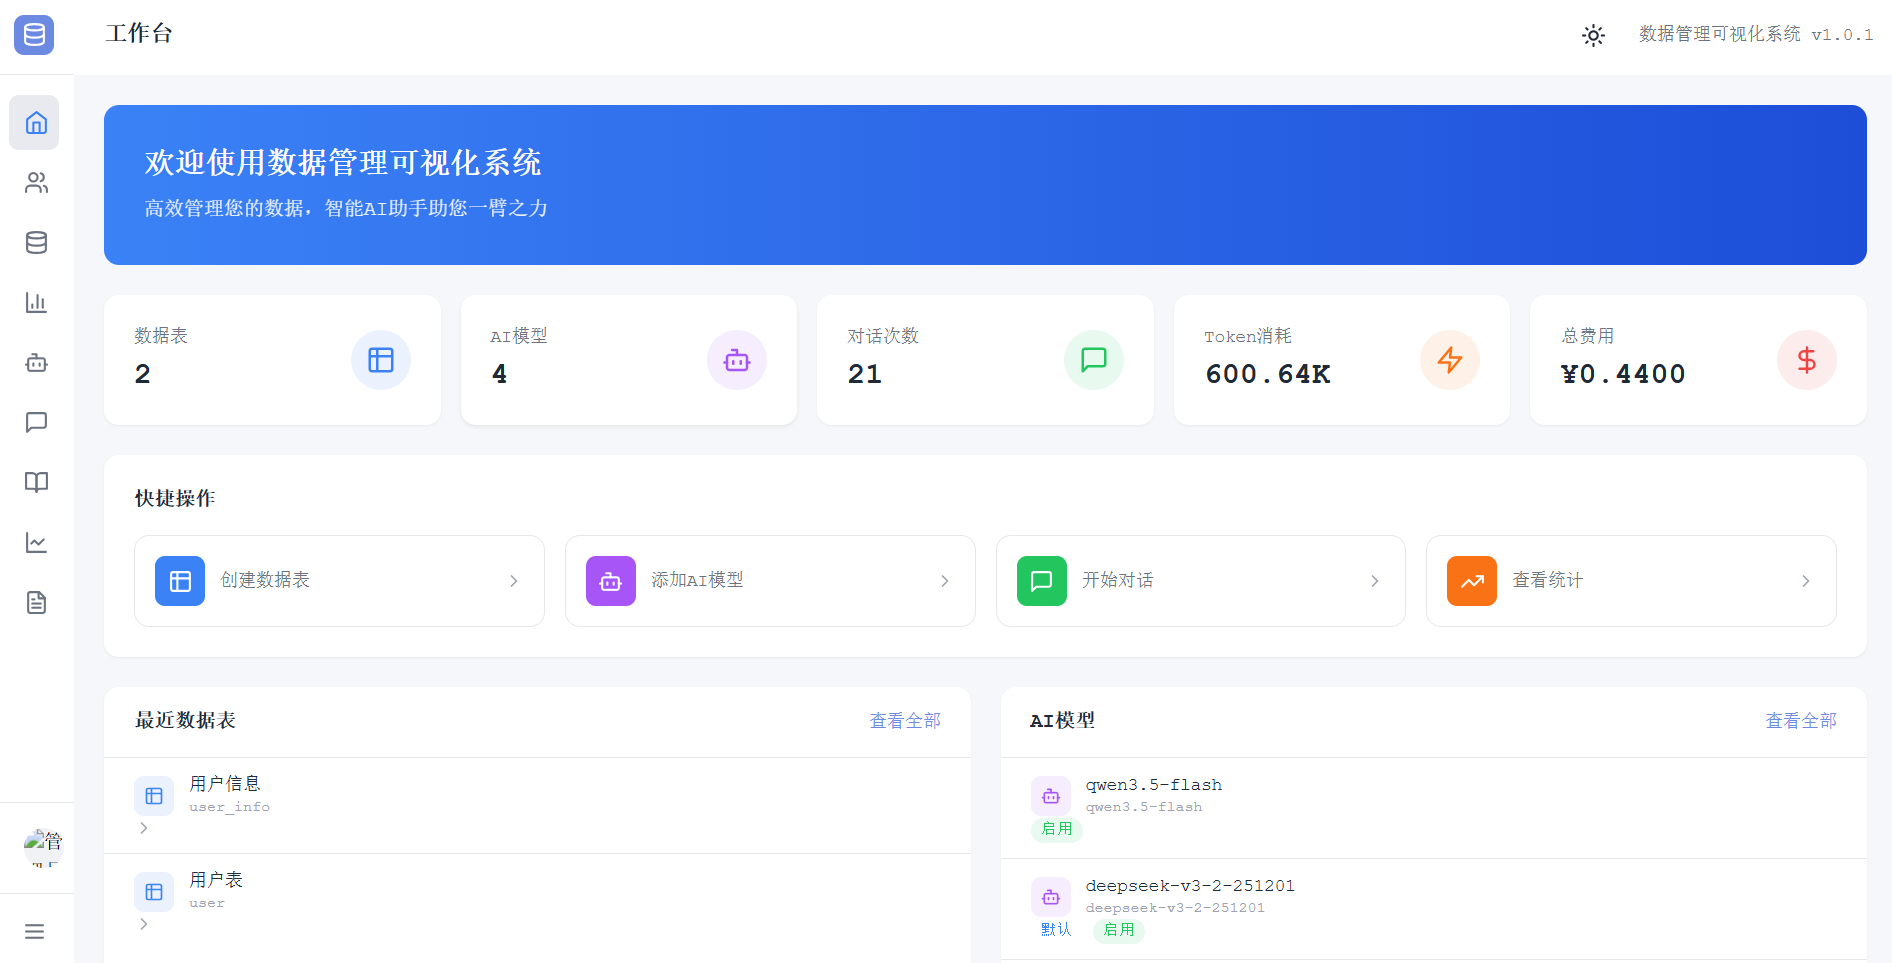
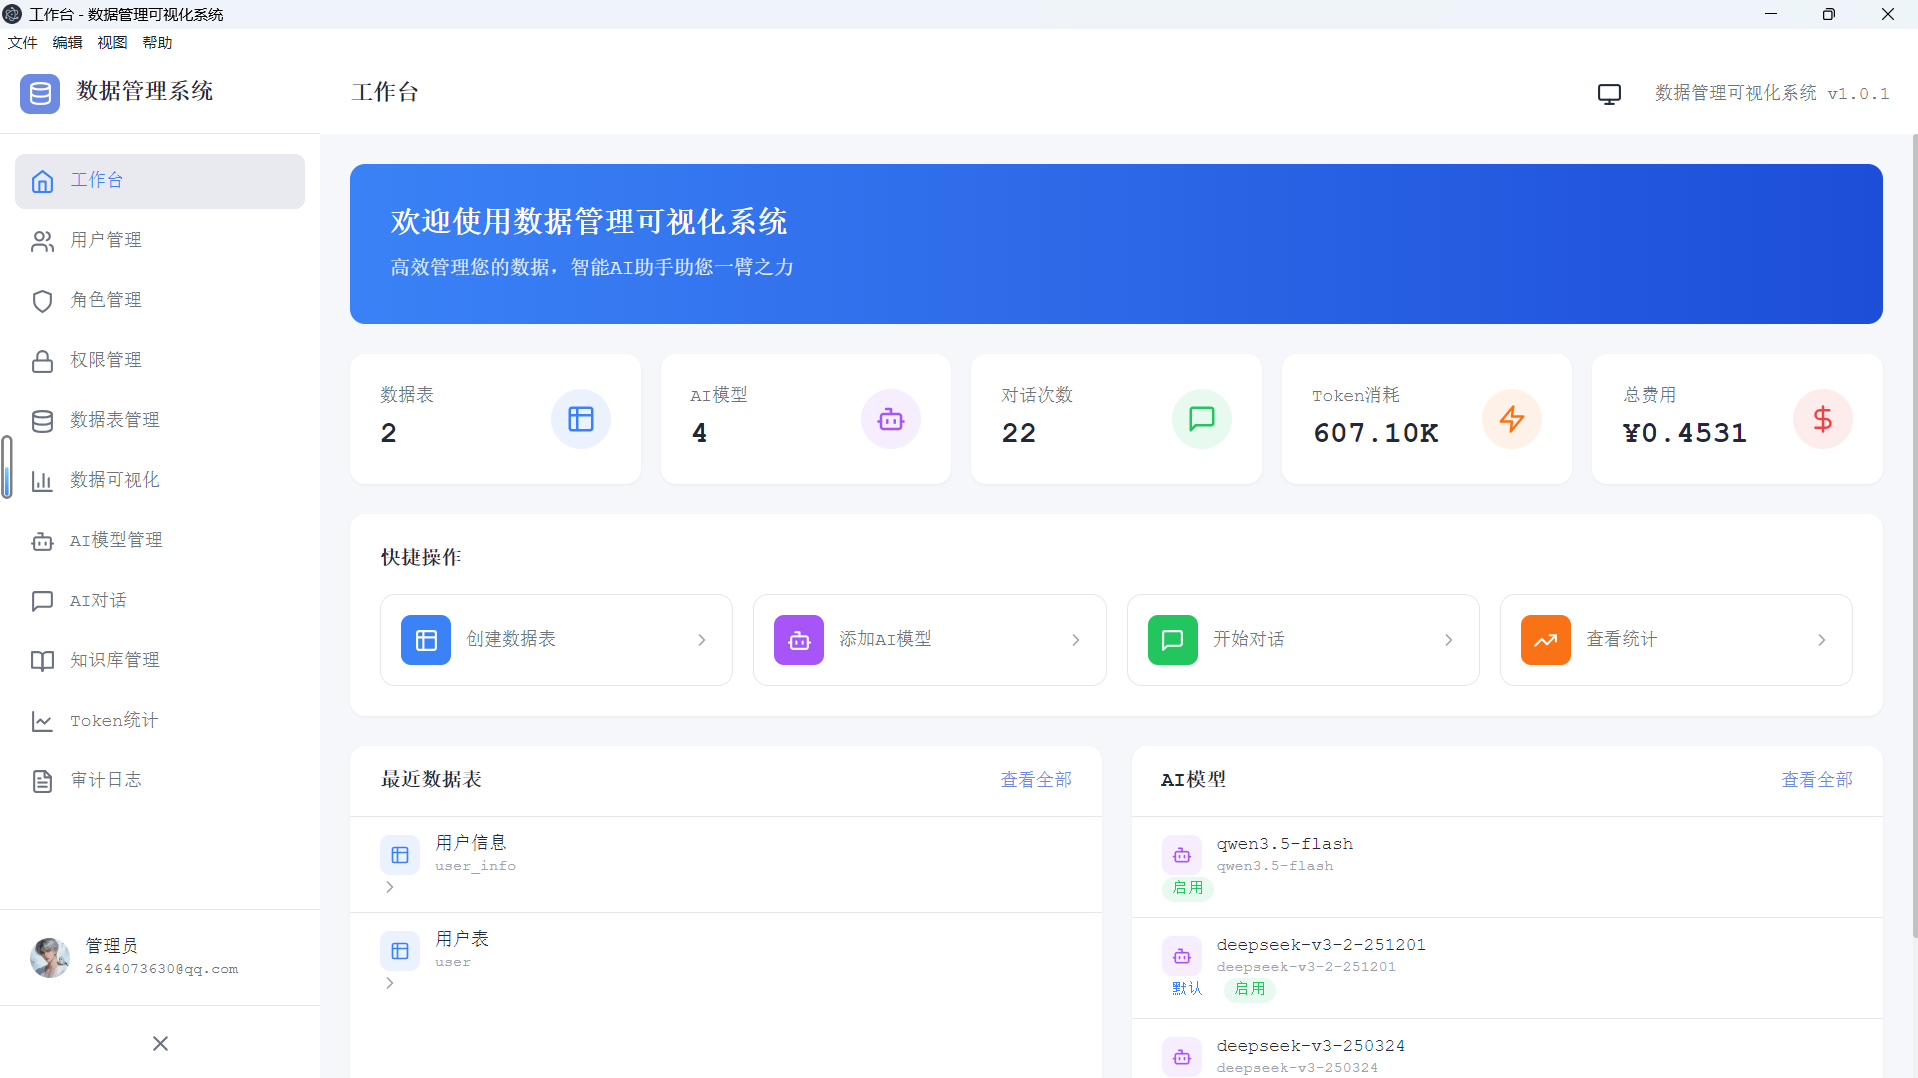
docs: 更新README，新增角色权限、审计日志及文件上传模块文档

diff --git a/README.md b/README.md
@@ -6,7 +6,13 @@
 
 ## 系统预览
 
+**系统首页** - 展示数据概览、快捷操作入口、系统状态等核心信息
+
 ![系统预览图](data-management-system/image/image1.png)
+
+**Token统计页面** - 展示AI模型Token消耗记录、费用统计、按模型/日期筛选分析
+
+![Token统计页面](data-management-system/image/image2.png)
 
 ## 技术栈
 
@@ -54,10 +60,13 @@ data-management-system/
 │   │   ├── views/              # 页面视图
 │   │   │   ├── ai-chat/        # AI对话页面
 │   │   │   ├── ai-model/       # AI模型管理页面
+│   │   │   ├── audit-log/      # 审计日志页面
 │   │   │   ├── dashboard/      # 仪表盘页面
 │   │   │   ├── data-manage/    # 数据管理页面
 │   │   │   ├── knowledge-base/ # 知识库管理页面
 │   │   │   ├── login/          # 登录页面
+│   │   │   ├── permission-manage/ # 权限管理页面
+│   │   │   ├── role-manage/    # 角色管理页面
 │   │   │   ├── settings/       # 系统设置页面
 │   │   │   ├── table-manage/   # 表管理页面
 │   │   │   ├── token-stats/    # Token统计页面
@@ -72,15 +81,20 @@ data-management-system/
 │   ├── src/
 │   │   ├── modules/            # 业务模块
 │   │   │   ├── ai-model/       # AI模型管理（模型配置、对话、工具调用）
+│   │   │   ├── audit-log/      # 审计日志模块
 │   │   │   ├── auth/           # 认证模块（登录、验证码、密码修改）
 │   │   │   ├── dynamic-data/   # 动态数据模块
 │   │   │   ├── knowledge-base/ # 知识库模块
 │   │   │   ├── mail/           # 邮件服务模块
+│   │   │   ├── permission/     # 权限管理模块
 │   │   │   ├── redis-cache/    # Redis缓存模块
+│   │   │   ├── role/           # 角色管理模块
 │   │   │   ├── table-meta/     # 表元数据模块
 │   │   │   ├── token-usage/    # Token消耗统计模块
+│   │   │   ├── upload/         # 文件上传模块
 │   │   │   ├── user/           # 用户管理模块
 │   │   │   └── view-config/    # 视图配置模块
+│   │   ├── resource/           # 静态资源目录（头像、文件等）
 │   │   ├── common/             # 公共模块（过滤器、拦截器、装饰器）
 │   │   ├── database/           # 数据库配置与实体
 │   │   └── main.ts             # 入口文件
@@ -244,6 +258,26 @@ npm run db:init-admin
 - 用户状态切换（启用/禁用）
 - 密码重置
 - 最后登录时间记录
+- 用户头像上传
+
+### 角色管理
+- 角色CRUD
+- 角色权限配置
+- 用户角色分配
+
+### 权限管理
+- 权限CRUD
+- 权限分类管理
+- 基于RBAC的权限控制
+
+### 审计日志
+- 操作日志记录
+- 日志查询与筛选
+
+### 文件上传
+- 头像上传
+- 通用文件上传
+- 文件大小与类型校验
 
 ### 系统设置
 - 个人信息修改
@@ -289,32 +323,267 @@ EMAIL_FROM=your_email@example.com
 |------|------|------|
 | 认证 | `/api/auth/*` | 登录、验证码、密码修改 |
 | 用户 | `/api/user/*` | 用户CRUD、状态切换 |
+| 角色 | `/api/role/*` | 角色CRUD、权限配置 |
+| 权限 | `/api/permission/*` | 权限CRUD |
 | 表管理 | `/api/table-meta/*` | 表结构定义、字段管理 |
 | 数据管理 | `/api/dynamic-data/*` | 动态数据CRUD |
 | AI模型 | `/api/ai/*` | 模型管理、对话、定价 |
 | 知识库 | `/api/knowledge/*` | 知识条目管理 |
 | Token统计 | `/api/token-usage/*` | 消耗统计 |
 | 视图配置 | `/api/view-config/*` | 视图配置管理 |
+| 文件上传 | `/api/upload/*` | 头像上传、文件上传 |
+| 审计日志 | `/api/audit-log/*` | 操作日志查询 |
+| 静态资源 | `/static/*` | 头像、文件等静态资源访问 |
 
 ## 数据库表
 
 | 表名 | 说明 |
 |------|------|
 | sys_user | 用户表 |
-| sys_table_meta | 表元数据 |
-| sys_table_field | 表字段定义 |
+| sys_role | 角色表 |
+| sys_permission | 权限表 |
+| sys_role_permission | 角色权限关联表 |
+| sys_table | 表元数据 |
+| sys_field | 表字段定义 |
 | sys_ai_model | AI模型配置 |
 | sys_ai_chat | AI对话记录 |
-| sys_token_usage | Token消耗记录 |
-| sys_model_pricing | 模型定价配置 |
-| sys_knowledge | 知识库 |
+| sys_ai_token_usage | Token消耗记录 |
+| sys_ai_model_pricing | 模型定价配置 |
+| sys_knowledge_base | 知识库 |
 | sys_view_config | 视图配置 |
+| sys_audit_log | 审计日志 |
+
+## 数据字典
+
+### sys_user 用户表
+
+| 字段名 | 类型 | 必填 | 说明 |
+|--------|------|------|------|
+| id | varchar(36) | 是 | 用户唯一标识（UUID） |
+| username | varchar(50) | 是 | 用户名（唯一） |
+| password | varchar(255) | 是 | 密码（哈希加密存储） |
+| email | varchar(100) | 是 | 邮箱（唯一） |
+| nickname | varchar(50) | 否 | 昵称 |
+| avatar | varchar(500) | 否 | 头像URL |
+| roleId | varchar(36) | 否 | 角色ID |
+| status | tinyint | 是 | 状态：0-正常，1-禁用 |
+| lastLoginAt | datetime | 否 | 最后登录时间 |
+| lastLoginIp | varchar(50) | 否 | 最后登录IP |
+| createdBy | varchar(36) | 否 | 创建人ID |
+| updatedBy | varchar(36) | 否 | 更新人ID |
+| version | int | 是 | 乐观锁版本号 |
+| createdAt | datetime | 是 | 创建时间 |
+| updatedAt | datetime | 是 | 更新时间 |
+
+### sys_role 角色表
+
+| 字段名 | 类型 | 必填 | 说明 |
+|--------|------|------|------|
+| id | varchar(36) | 是 | 角色唯一标识（UUID） |
+| code | varchar(50) | 是 | 角色编码（唯一） |
+| name | varchar(50) | 是 | 角色名称 |
+| description | varchar(200) | 否 | 角色描述 |
+| status | tinyint | 是 | 状态：0-正常，1-禁用 |
+| sort | int | 是 | 排序号 |
+| createdBy | varchar(36) | 否 | 创建人ID |
+| updatedBy | varchar(36) | 否 | 更新人ID |
+| createdAt | datetime | 是 | 创建时间 |
+| updatedAt | datetime | 是 | 更新时间 |
+
+### sys_permission 权限表
+
+| 字段名 | 类型 | 必填 | 说明 |
+|--------|------|------|------|
+| id | varchar(36) | 是 | 权限唯一标识（UUID） |
+| code | varchar(100) | 是 | 权限编码（唯一，如 user:view） |
+| name | varchar(50) | 是 | 权限名称 |
+| type | varchar(20) | 是 | 权限类型：menu-菜单，button-按钮，api-接口 |
+| parentId | varchar(36) | 否 | 父级权限ID |
+| routePath | varchar(200) | 否 | 关联路由路径（菜单类型） |
+| icon | varchar(100) | 否 | 图标 |
+| sort | int | 是 | 排序号 |
+| status | tinyint | 是 | 状态：0-正常，1-禁用 |
+| description | varchar(200) | 否 | 描述 |
+| createdAt | datetime | 是 | 创建时间 |
+| updatedAt | datetime | 是 | 更新时间 |
+
+### sys_role_permission 角色权限关联表
+
+| 字段名 | 类型 | 必填 | 说明 |
+|--------|------|------|------|
+| id | varchar(36) | 是 | 主键ID（UUID） |
+| roleId | varchar(36) | 是 | 角色ID |
+| permissionId | varchar(36) | 是 | 权限ID |
+| createdAt | datetime | 是 | 创建时间 |
+
+### sys_table 表元数据
+
+| 字段名 | 类型 | 必填 | 说明 |
+|--------|------|------|------|
+| tableId | varchar(36) | 是 | 表唯一标识（UUID） |
+| tableName | varchar(100) | 是 | 表名称（英文名，唯一） |
+| displayName | varchar(100) | 是 | 显示名称 |
+| description | text | 否 | 表描述 |
+| version | int | 是 | 乐观锁版本号 |
+| createdAt | datetime | 是 | 创建时间 |
+| updatedAt | datetime | 是 | 更新时间 |
+
+### sys_field 表字段定义
+
+| 字段名 | 类型 | 必填 | 说明 |
+|--------|------|------|------|
+| fieldId | varchar(36) | 是 | 字段唯一标识（UUID） |
+| tableId | varchar(36) | 是 | 所属表ID |
+| fieldName | varchar(100) | 是 | 字段名称（英文名） |
+| displayName | varchar(100) | 是 | 显示名称 |
+| fieldType | varchar(20) | 是 | 字段类型 |
+| required | boolean | 是 | 是否必填 |
+| defaultValue | text | 否 | 默认值 |
+| options | json | 否 | 选项配置（单选/多选时使用） |
+| relationTable | varchar(100) | 否 | 关联表名 |
+| length | int | 否 | 字段长度 |
+| decimalPlaces | int | 否 | 小数位数 |
+| isIndex | boolean | 是 | 是否建立索引 |
+| isUnique | boolean | 是 | 是否唯一约束 |
+| isForeignKey | boolean | 是 | 是否外键 |
+| foreignKeyTable | varchar(100) | 否 | 外键关联表名 |
+| foreignKeyField | varchar(100) | 否 | 外键关联字段名 |
+| foreignKeyOnDelete | varchar(20) | 否 | 外键删除行为 |
+| isAutoIncrement | boolean | 是 | 是否自增 |
+| comment | varchar(500) | 否 | 字段注释 |
+| sortOrder | int | 是 | 排序序号 |
+| createdAt | datetime | 是 | 创建时间 |
+
+### sys_ai_model AI模型配置
+
+| 字段名 | 类型 | 必填 | 说明 |
+|--------|------|------|------|
+| modelId | varchar(36) | 是 | 模型唯一标识（UUID） |
+| modelName | varchar(100) | 是 | 模型显示名称 |
+| modelType | varchar(20) | 是 | 模型类型：openai/qwen/zhipu/custom等 |
+| apiEndpoint | varchar(500) | 是 | API接口地址 |
+| apiKey | text | 是 | API密钥（加密存储） |
+| modelIdentifier | varchar(100) | 是 | 具体模型标识（gpt-4、qwen-turbo等） |
+| parameters | json | 否 | 模型参数配置 |
+| isEnabled | boolean | 是 | 是否启用 |
+| isDefault | boolean | 是 | 是否为默认模型 |
+| createdBy | varchar(36) | 否 | 创建人ID |
+| updatedBy | varchar(36) | 否 | 更新人ID |
+| createdAt | datetime | 是 | 创建时间 |
+| updatedAt | datetime | 是 | 更新时间 |
+
+### sys_ai_chat AI对话记录
+
+| 字段名 | 类型 | 必填 | 说明 |
+|--------|------|------|------|
+| chatId | varchar(36) | 是 | 对话唯一标识（UUID） |
+| modelId | varchar(36) | 是 | 使用的模型ID |
+| sessionId | varchar(36) | 是 | 会话ID（用于分组对话） |
+| role | varchar(20) | 是 | 角色：user/assistant |
+| content | text | 是 | 对话内容 |
+| thinking | text | 否 | 思考过程（思维链） |
+| createdBy | varchar(36) | 否 | 创建人ID |
+| createdAt | datetime | 是 | 创建时间 |
+| updatedAt | datetime | 是 | 更新时间 |
+
+### sys_ai_token_usage Token消耗记录
+
+| 字段名 | 类型 | 必填 | 说明 |
+|--------|------|------|------|
+| usageId | varchar(36) | 是 | 记录唯一标识（UUID） |
+| modelId | varchar(36) | 是 | 使用的模型ID |
+| chatId | varchar(36) | 否 | 关联的对话ID |
+| sessionId | varchar(36) | 是 | 会话ID |
+| inputTokens | int | 是 | 输入token数 |
+| outputTokens | int | 是 | 输出token数 |
+| totalTokens | int | 是 | 总token数 |
+| estimatedCost | decimal(10,6) | 是 | 预估费用（元） |
+| createdBy | varchar(36) | 否 | 创建人ID |
+| createdAt | datetime | 是 | 创建时间 |
+
+### sys_ai_model_pricing 模型定价配置
+
+| 字段名 | 类型 | 必填 | 说明 |
+|--------|------|------|------|
+| pricingId | varchar(36) | 是 | 定价配置ID（UUID） |
+| modelId | varchar(36) | 是 | 关联模型ID |
+| inputPrice | decimal(10,6) | 是 | 输入token单价（元/千tokens） |
+| outputPrice | decimal(10,6) | 是 | 输出token单价（元/千tokens） |
+| currency | varchar(10) | 是 | 货币单位，默认CNY |
+| effectiveDate | date | 是 | 生效日期 |
+| createdBy | varchar(36) | 否 | 创建人ID |
+| updatedBy | varchar(36) | 否 | 更新人ID |
+| createdAt | datetime | 是 | 创建时间 |
+| updatedAt | datetime | 是 | 更新时间 |
+
+### sys_knowledge_base 知识库
+
+| 字段名 | 类型 | 必填 | 说明 |
+|--------|------|------|------|
+| knowledgeId | varchar(36) | 是 | 知识条目唯一标识（UUID） |
+| title | varchar(200) | 是 | 知识标题 |
+| content | text | 是 | 知识内容 |
+| category | varchar(50) | 否 | 知识分类 |
+| tags | json | 否 | 关键词标签（JSON数组） |
+| source | varchar(100) | 否 | 知识来源 |
+| priority | int | 是 | 优先级（数值越大优先级越高） |
+| isEnabled | boolean | 是 | 是否启用 |
+| viewCount | int | 是 | 访问次数 |
+| createdBy | varchar(36) | 否 | 创建人ID |
+| updatedBy | varchar(36) | 否 | 更新人ID |
+| createdAt | datetime | 是 | 创建时间 |
+| updatedAt | datetime | 是 | 更新时间 |
+
+### sys_view_config 视图配置
+
+| 字段名 | 类型 | 必填 | 说明 |
+|--------|------|------|------|
+| viewId | varchar(36) | 是 | 视图唯一标识（UUID） |
+| viewName | varchar(100) | 是 | 视图名称 |
+| tableId | varchar(36) | 是 | 关联的数据表ID |
+| chartType | varchar(20) | 是 | 图表类型：bar/pie/line |
+| xAxis | varchar(100) | 否 | X轴字段 |
+| yAxis | varchar(100) | 否 | Y轴字段 |
+| filters | json | 否 | 筛选条件（JSON格式） |
+| isDefault | boolean | 是 | 是否为默认视图 |
+| createdBy | varchar(36) | 否 | 创建人ID |
+| updatedBy | varchar(36) | 否 | 更新人ID |
+| createdAt | datetime | 是 | 创建时间 |
+| updatedAt | datetime | 是 | 更新时间 |
+
+### sys_audit_log 审计日志
+
+| 字段名 | 类型 | 必填 | 说明 |
+|--------|------|------|------|
+| id | varchar(36) | 是 | 日志唯一标识（UUID） |
+| action | enum | 是 | 操作类型：create/update/delete/import/export/login/logout |
+| module | varchar(50) | 是 | 操作模块 |
+| description | varchar(500) | 是 | 操作描述 |
+| userId | varchar(36) | 否 | 操作用户ID |
+| username | varchar(100) | 否 | 操作用户名 |
+| tableName | varchar(100) | 否 | 关联表名 |
+| recordId | varchar(36) | 否 | 关联记录ID |
+| oldData | json | 否 | 操作前数据（JSON格式） |
+| newData | json | 否 | 操作后数据（JSON格式） |
+| ipAddress | varchar(45) | 否 | 操作IP地址 |
+| userAgent | varchar(500) | 否 | 用户代理 |
+| success | boolean | 是 | 操作结果 |
+| errorMessage | text | 否 | 错误信息 |
+| createdAt | datetime | 是 | 创建时间 |
 
 ## 作者
 
 dzh
 
 ## 更新日志
+
+### v1.0.5 (2026-03-16)
+- 新增角色管理模块，支持角色CRUD和权限配置
+- 新增权限管理模块，支持权限CRUD和分类管理
+- 新增用户头像上传功能，支持文件上传和预览
+- 新增审计日志模块，记录用户操作行为
+- 优化AI对话模块，支持DeepSeek等模型的Thinking标签解析
+- 优化静态资源服务，统一资源访问路径
 
 ### v1.0.1 (2026-03-14)
 - 新增 Electron 桌面客户端支持
